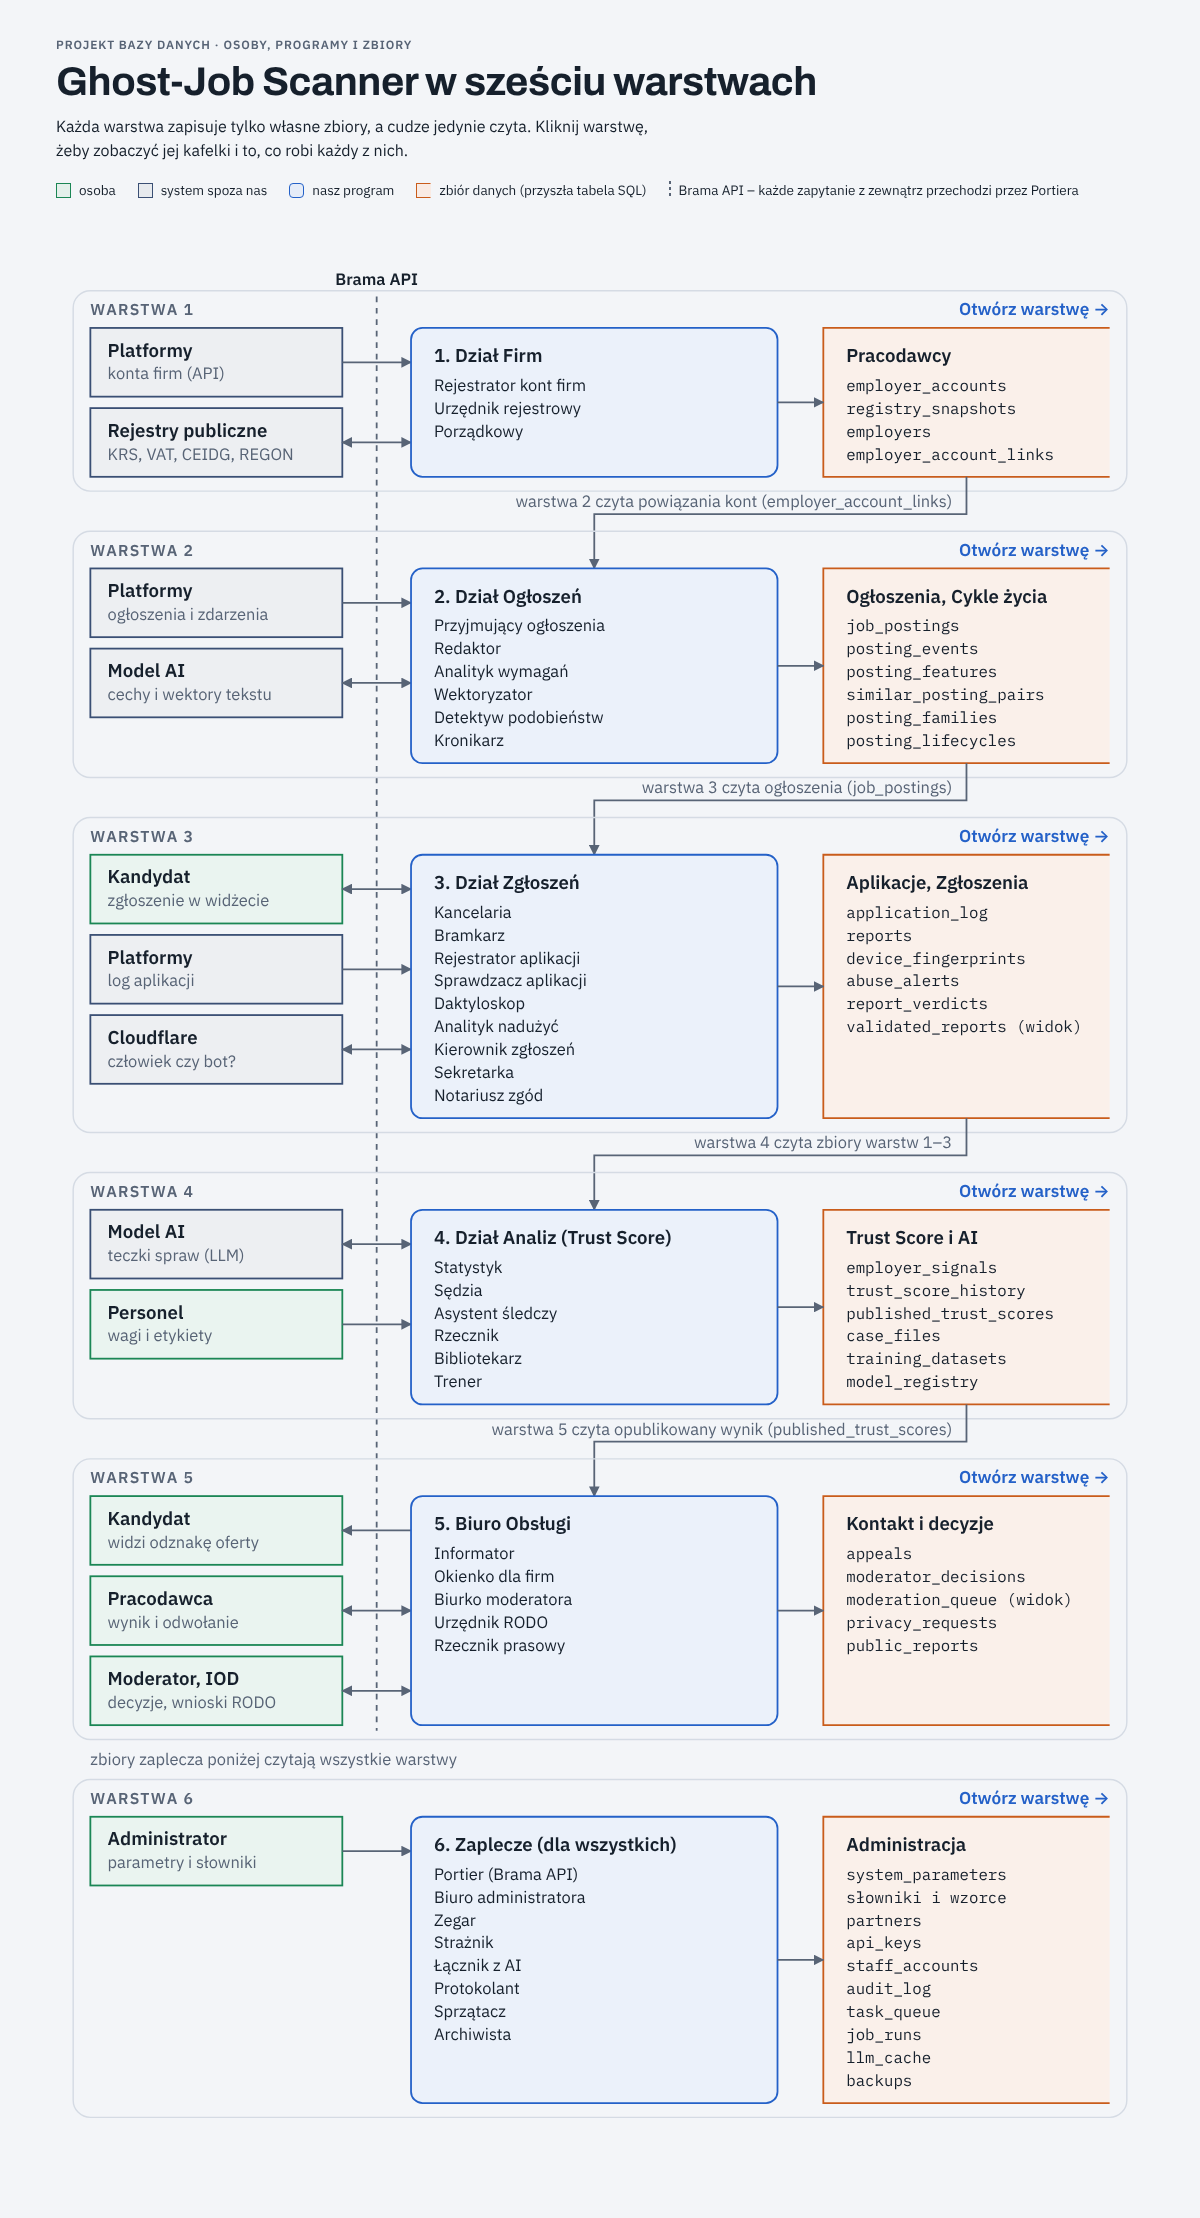
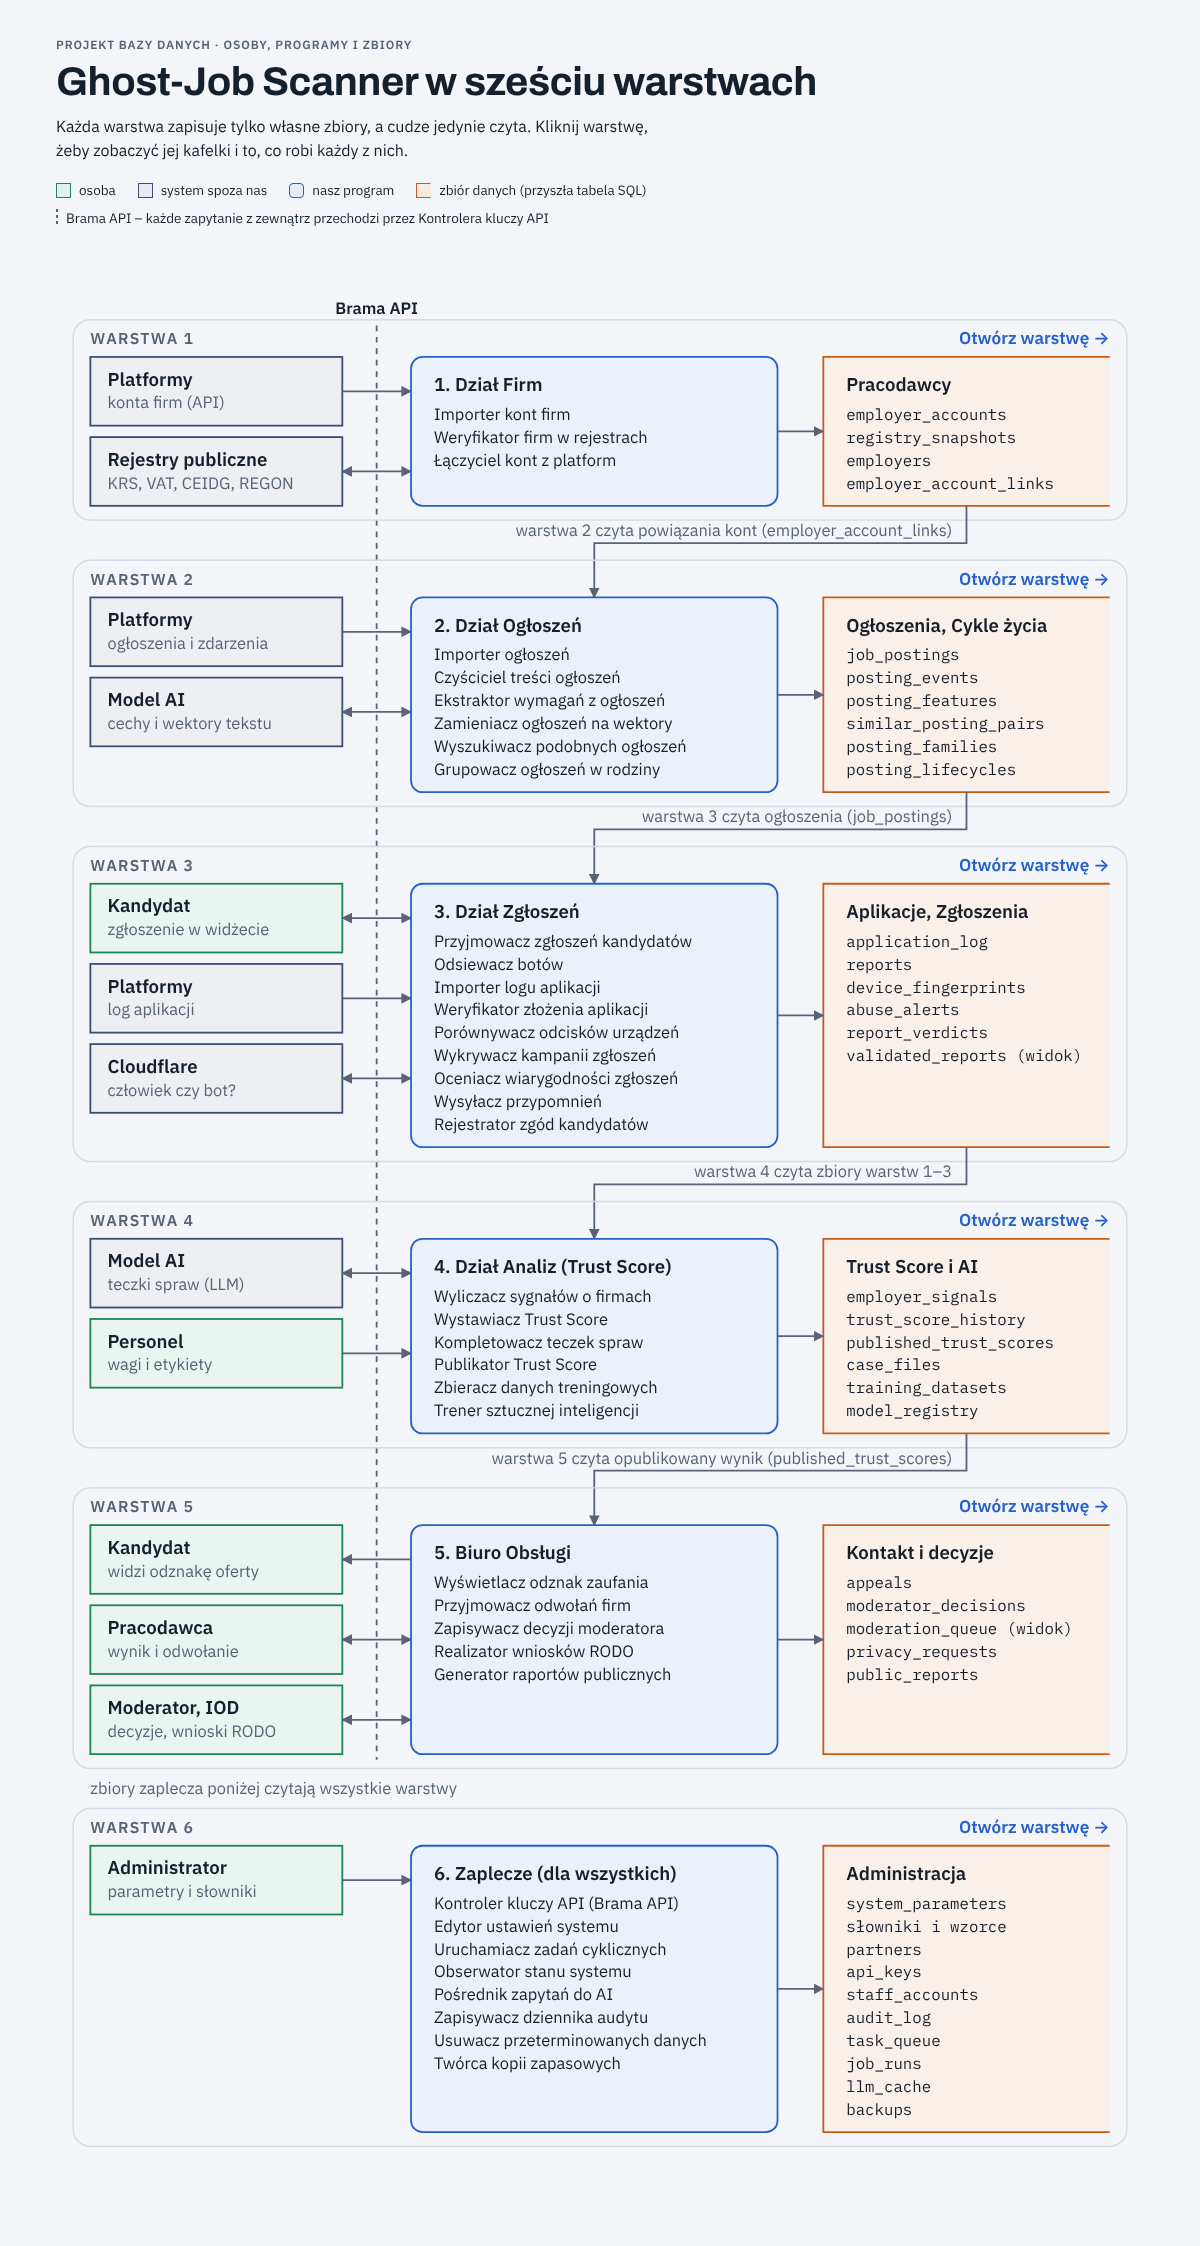
Obrazy w docs/img z nowymi nazwami programów
Mapa całości i warstwy to zrzuty web/index.html (render_img.js), a DFD
poziomu 1 i drogę zgłoszenia rysuje gen_diagramy.py. README nie mówi już,
że obrazy mają dawne nazwy, i opisuje, jak je odświeżyć.

Claude-Session: https://claude.ai/code/session_01MMtCAhrut2WqwfywQE67Po

Changed region(s): [[0.0617, 0.1244, 0.925, 0.9333], [0.7092, 0.7777, 0.925, 0.9644], [0.0617, 0.0311, 0.555, 0.0933]]

diff --git a/narzedzia/render_img.js b/narzedzia/render_img.js
@@ -1,0 +1,30 @@
+// Robi obrazy do docs/img/ z web/index.html i narzedzia/diagramy.html.
+// Użycie: python narzedzia/build_web.py && python narzedzia/gen_diagramy.py && node narzedzia/render_img.js
+// (wymaga pakietu playwright z przeglądarką Chromium)
+const path = require('path');
+const { chromium } = require('playwright');
+
+const root = path.join(__dirname, '..');
+const img = name => path.join(root, 'docs', 'img', name);
+
+(async () => {
+  const browser = await chromium.launch();
+  const page = await browser.newPage({ viewport: { width: 1200, height: 900 } });
+  const url = 'file://' + path.join(root, 'web', 'index.html');
+  await page.goto(url);
+  await page.evaluate(() => document.fonts.ready);
+  await page.screenshot({ path: img('mapa-calosc.png'), fullPage: true });
+  for (let n = 1; n <= 6; n++) {
+    await page.goto(url + '#warstwa-' + n);
+    await page.waitForTimeout(300);
+    // mini-mapa całej struktury zwinięta, jak na pierwszych obrazach
+    await page.evaluate(() => document.querySelectorAll('details[open]').forEach(d => d.removeAttribute('open')));
+    await page.screenshot({ path: img(`warstwa-${n}.png`), fullPage: true });
+  }
+  await page.setViewportSize({ width: 1400, height: 900 });
+  await page.goto('file://' + path.join(__dirname, 'diagramy.html'));
+  await page.evaluate(() => document.fonts.ready);
+  await (await page.$('#dfd')).screenshot({ path: img('dfd-poziom-1.png') });
+  await (await page.$('#droga')).screenshot({ path: img('droga-zgloszenia.png') });
+  await browser.close();
+})();

diff --git a/narzedzia/gen_diagramy.py b/narzedzia/gen_diagramy.py
@@ -1,0 +1,194 @@
+"""Buduje diagramy.html z dwoma rysunkami: DFD poziomu 1 i drogę zgłoszenia.
+
+Obrazy PNG z tego pliku robi narzedzia/render_img.js.
+"""
+import os
+import sys
+from html import escape
+
+HERE = os.path.dirname(os.path.abspath(__file__))
+sys.path.insert(0, HERE)
+from data import LAYERS  # noqa: E402
+from gen_html import MAP_SOURCES  # noqa: E402
+
+# Krótkie linie programów w kafelku działu (pełne nazwy + najważniejsza uwaga).
+DFD_PROGRAMS = {
+    1: ["Importer kont firm", "Weryfikator firm w rejestrach (NIP, KRS)", "Łączyciel kont z platform: scala duplikaty"],
+    2: ["Importer ogłoszeń (adaptery)", "Czyściciel treści ogłoszeń: tekst i stopki", "Ekstraktor wymagań z ogłoszeń",
+        "Zamieniacz ogłoszeń na wektory", "Wyszukiwacz podobnych ogłoszeń", "Grupowacz ogłoszeń w rodziny i cykle życia"],
+    3: ["Przyjmowacz zgłoszeń kandydatów", "Odsiewacz botów (Turnstile)", "Importer logu aplikacji",
+        "Weryfikator złożenia aplikacji", "Porównywacz odcisków urządzeń", "Wykrywacz kampanii zgłoszeń",
+        "Oceniacz wiarygodności zgłoszeń: waga i decyzja", "Wysyłacz przypomnień", "Rejestrator zgód kandydatów"],
+    4: ["Wyliczacz sygnałów o firmach", "Wystawiacz Trust Score: wynik i pewność", "Kompletowacz teczek spraw (LLM)",
+        "Publikator Trust Score: publikacja wyniku", "Zbieracz danych treningowych", "Trener sztucznej inteligencji"],
+    5: ["Wyświetlacz odznak zaufania (widżet)", "Przyjmowacz odwołań firm", "Zapisywacz decyzji moderatora",
+        "Realizator wniosków RODO", "Generator raportów publicznych"],
+    6: ["Kontroler kluczy API (Brama API)", "Edytor ustawień systemu", "Uruchamiacz zadań cyklicznych (harmonogram)",
+        "Obserwator stanu systemu", "Pośrednik zapytań do AI (cache, koszty)", "Zapisywacz dziennika audytu",
+        "Usuwacz przeterminowanych danych", "Twórca kopii zapasowych"],
+}
+DFD_READS = {1: "czyta powiązania kont", 2: "czyta ogłoszenia", 3: "czyta zbiory działów 1–3", 4: "czyta opublikowany wynik"}
+# Kierunek strzałek źródło ↔ dział, jak na mapie w template.html.
+DIRS = {1: ["in", "both"], 2: ["in", "both"], 3: ["both", "in", "both"], 4: ["both", "in"], 5: ["out", "both", "both"],
+        6: ["in"]}
+
+CSS = """
+body { margin: 0; background: #fff; font-family: 'IBM Plex Sans', sans-serif; }
+svg { display: block; }
+text { fill: #1d1d1b; font-size: 19px; }
+.title { font-size: 25px; font-weight: 600; }
+.dim { fill: #5f5d58; }
+.b { font-weight: 600; font-size: 21px; }
+.k-person { fill: #eaf5ee; stroke: #2f9e6e; stroke-width: 2.5; }
+.k-sys { fill: #e8ebf0; stroke: #1f2f4f; stroke-width: 2.5; }
+.k-prog { fill: #e6eff9; stroke: #3b82d6; stroke-width: 2; }
+.k-store { fill: #fcefe8; stroke: none; }
+.edge { fill: none; stroke: #e07b4f; stroke-width: 2; }
+.plain { fill: #fff; stroke: #c9c5bb; stroke-width: 2; }
+.hl { fill: #e6eff9; stroke: #3b82d6; stroke-width: 3; }
+.dash { fill: #fff; stroke: #c9c5bb; stroke-width: 2; stroke-dasharray: 8 6; }
+.ext { fill: #fff; stroke: #c9c5bb; stroke-width: 2; }
+.conn { fill: none; stroke: #c9c5bb; stroke-width: 2; }
+.gate { stroke: #9a978f; stroke-width: 1.5; stroke-dasharray: 5 5; }
+.m-head { fill: #c9c5bb; }
+"""
+MARKER = ('<defs><marker id="a" viewBox="0 0 10 10" refX="9" refY="5" markerWidth="7" markerHeight="7" '
+          'orient="auto-start-reverse"><path d="M0 1L10 5L0 9z" class="m-head"/></marker></defs>')
+
+
+def t(x, y, s, cls="", anchor=None):
+    a = f' text-anchor="{anchor}"' if anchor else ""
+    c = f' class="{cls}"' if cls else ""
+    return f'<text x="{x}" y="{y}"{c}{a}>{escape(s)}</text>'
+
+
+def arrow(d, both=False):
+    s = ' marker-start="url(#a)"' if both else ""
+    return f'<path class="conn" d="{d}" marker-end="url(#a)"{s}/>'
+
+
+def store(x, y, w, h):
+    return (f'<rect class="k-store" x="{x}" y="{y}" width="{w}" height="{h}"/>'
+            f'<path class="edge" d="M{x + w} {y}H{x}V{y + h}H{x + w}"/>')
+
+
+def dfd():
+    W = 1344
+    SX, SW, GX, PX, PW, ZX, ZW = 40, 290, 366, 405, 500, 945, 360
+    LH = 27
+    out = [t(40, 52, "Każdy dział zapisuje tylko własne zbiory, cudze tylko czyta", "title")]
+    legend = [("k-person", "Osoba – człowiek w roli, np. Kandydat"), ("k-sys", "System zewnętrzny – program spoza nas"),
+              ("k-prog", "Dział – każda linia to jeden nasz program"), ("k-store", "Zbiór – każda linia to przyszła tabela SQL")]
+    for i, (k, s) in enumerate(legend):
+        x, y = 40 + (i % 2) * 556, 86 + (i // 2) * 32
+        cls = k if k != "k-store" else "k-store\" style=\"stroke:#e07b4f;stroke-width:2"
+        out.append(f'<rect class="{cls}" x="{x}" y="{y}" width="19" height="19" rx="3"/>' + t(x + 30, y + 16, s))
+    out.append(t(40, 176, "Programy mają nazwy mówiące, co robią, np. Przyjmowacz zgłoszeń kandydatów = receive_report.py; "
+                 "„(widok)” = zapytanie, nie tabela", "dim"))
+    out.append(t(40, 204, "strzałka do zbioru = zapis, strzałka ze zbioru do działu = odczyt", "dim"))
+    out.append(t(GX, 240, "Brama API", "b", "middle").replace('class="b"', 'class="b" style="font-size:18px"'))
+    y = 262
+    lanes = []
+    for L in LAYERS:
+        n = L["id"]
+        progs, srcs = DFD_PROGRAMS[n], MAP_SOURCES[n]
+        stores = [z["name"] for z in L["stores"]]
+        h = max(len(srcs) * 92 - 12, 60 + LH * len(progs) + 14, 60 + LH * len(stores) + 14)
+        lanes.append((L, y, h, progs, srcs, stores))
+        y += h + (82 if n < 5 else 92)
+    H = y - 60
+    gate_end = lanes[4][1] + lanes[4][2] + 6
+    out.append(f'<line class="gate" x1="{GX}" y1="250" x2="{GX}" y2="{gate_end}"/>')
+    for i, (L, top, h, progs, srcs, stores) in enumerate(lanes):
+        n = L["id"]
+        for j, (kind, name, detail) in enumerate(srcs):
+            ey = top + j * 92
+            out.append(f'<rect class="k-{kind}" x="{SX}" y="{ey}" width="{SW}" height="78"/>')
+            out.append(t(SX + 20, ey + 32, name, "b") + t(SX + 20, ey + 60, detail, "dim"))
+            cy, d = ey + 39, DIRS[n][j]
+            out.append(arrow(f"M{PX} {cy}H{SX + SW}") if d == "out" else arrow(f"M{SX + SW} {cy}H{PX}", d == "both"))
+        out.append(f'<rect class="k-prog" x="{PX}" y="{top}" width="{PW}" height="{h}" rx="12"/>')
+        out.append(t(PX + 26, top + 40, L["map_title"], "b"))
+        out += [t(PX + 26, top + 74 + LH * k, p) for k, p in enumerate(progs)]
+        out.append(store(ZX, top, ZW, h))
+        out.append(t(ZX + 26, top + 40, L["store_group"], "b"))
+        out += [t(ZX + 26, top + 74 + LH * k, z) for k, z in enumerate(stores)]
+        out.append(arrow(f"M{PX + PW} {top + h / 2}H{ZX}"))
+        if n in DFD_READS:
+            b, nt, cx = top + h, lanes[i + 1][1], ZX + ZW * 0.45
+            out.append(arrow(f"M{cx} {b}V{b + 36}H{PX + PW / 2}V{nt}"))
+            out.append(t((cx + PX + PW / 2) / 2 + 40, b + 26, DFD_READS[n], "dim", "middle"))
+    return f'<svg id="dfd" viewBox="0 0 {W} {H}" width="{W}" height="{H}">{MARKER}{"".join(out)}</svg>'
+
+
+def box(x, y, w, h, cls, title, lines, rx=12):
+    r = f' rx="{rx}"' if cls not in ("ext",) else ""
+    s = [f'<rect class="{cls}" x="{x}" y="{y}" width="{w}" height="{h}"{r}/>', t(x + 28, y + 42, title, "b")]
+    for k, (cls2, line) in enumerate(lines):
+        s.append(t(x + 28, y + 72 + 28 * k, line, cls2))
+    return "".join(s)
+
+
+def droga():
+    W, H = 1384, 1400
+    L, C, R = 42, 410, 950       # lewa (zbiory), środkowa, prawa kolumna
+    CW, RW, LW = 495, 392, 311
+    o = [t(42, 52, "Zgłoszenie jest zapisywane od razu, a liczy się dopiero po ocenie Oceniacza wiarygodności", "title"),
+         t(42, 92, "ostry prostokąt = byt zewnętrzny · zaokrąglony = program · otwarty = zbiór danych", "dim")]
+    o.append(box(C, 127, CW, 99, "ext", "Kandydat w widżecie partnera", [("dim", "formularz, cechy urządzenia, token")]))
+    o.append(box(R, 127, RW, 99, "ext", "Cloudflare Turnstile", [("dim", "wydaje i sprawdza token")]))
+    o.append(box(C, 297, CW, 155, "plain", "Przyjmowacz zgłoszeń kandydatów",
+                 [("dim", "receive_report.py"), ("", "sprawdza format i czy oferta istnieje"),
+                  ("", "zapisuje od razu – nic nie ginie")]))
+    o.append(box(R, 297, RW, 155, "plain", "Odsiewacz botów",
+                 [("dim", "verify_turnstile.py"), ("", "pisze bot_checks"), ("", "token: 300 s, jednorazowy")]))
+    o.append(box(C, 523, CW, 340, "hl", "Oceniacz wiarygodności zgłoszeń",
+                 [("dim", "check_is_user_complaint_reliable.py"), ("", "bierze wynik Odsiewacza botów"),
+                  ("", "i trzy opinie (prawa kolumna),"), ("", "liczy wagę 0–1 i decyzję,"),
+                  ("", "zapisuje ją z powodami")]))
+    for k, (name, line) in enumerate([("Weryfikator złożenia aplikacji", "czyta application_log"),
+                                       ("Porównywacz odcisków urządzeń", "pisze device_fingerprints"),
+                                       ("Wykrywacz kampanii zgłoszeń", "pisze abuse_alerts")]):
+        yy = 523 + 120 * k
+        o.append(box(R, yy, RW, 99, "plain", name, [("", line)]))
+        o.append(arrow(f"M{R} {yy + 50}H{C + CW}"))
+    for yy, name in [(346, "reports"), (771, "report_verdicts"), (1117, "validated_reports (widok)")]:
+        o.append(store(L, yy, LW, 57).replace("k-store", "k-store\" style=\"fill:#fff").replace("class=\"edge\"", "class=\"conn\""))
+        o.append(t(L + 22, yy + 36, name))
+    # strzałki górnej części
+    o.append(arrow(f"M{C + CW} 177H{R}", True))
+    o.append(arrow(f"M{R + RW / 2} 226V297", True) + t(R + RW / 2 + 16, 270, "tak / nie", "dim"))
+    o.append(arrow(f"M{C + CW / 2} 226V297") + t(C + CW / 2 + 16, 270, "zgłoszenie", "dim"))
+    o.append(arrow(f"M{C + CW} 375H{R}", True))
+    o.append(arrow(f"M{C} 375H{L + LW}"))
+    o.append(arrow(f"M{L + 156} 403V573H{C}"))
+    o.append(arrow(f"M{C + CW / 2} 452V523") + t(C + CW / 2 + 16, 496, "zlecenie oceny", "dim"))
+    o.append(arrow(f"M{C} 799H{L + LW}"))
+    # decyzja
+    cx, cy = C + CW / 2, 976
+    o.append(arrow(f"M{cx} 863V920"))
+    o.append(f'<path class="plain" d="M{cx} 920L{cx + 155} {cy}L{cx} 1032L{cx - 155} {cy}z"/>')
+    o.append(t(cx, cy + 7, "jaka decyzja?", "b", "middle"))
+    o.append(arrow(f"M{cx - 155} {cy}H{L + 156}V1117") + t(354, cy - 14, "przyjęte", "dim", "middle"))
+    o.append(arrow(f"M{cx} 1032V1117") + t(cx + 16, 1082, "do moderacji", "dim"))
+    o.append(arrow(f"M{cx + 155} {cy}H{R + RW / 2}V1117") + t(1000, cy - 14, "odrzucone", "dim", "middle"))
+    o.append(box(C, 1117, CW, 155, "plain", "Zapisywacz decyzji moderatora",
+                 [("", "człowiek ogląda teczkę sprawy"), ("", "pisze moderator_decisions"),
+                  ("", "Oceniacz ocenia zgłoszenie ponownie")]))
+    o.append(box(R, 1117, RW, 99, "dash", "Odrzucone", [("", "zostaje w reports z wagą 0")]))
+    o.append(arrow(f"M{L + 156} 1174V1245"))
+    o.append(box(L, 1245, LW, 99, "plain", "Dział Analiz", [("", "sygnały → Trust Score")]))
+    return f'<svg id="droga" viewBox="0 0 {W} {H}" width="{W}" height="{H}">{MARKER}{"".join(o)}</svg>'
+
+
+def main():
+    page = ('<!doctype html><html lang="pl"><head><meta charset="utf-8">'
+            '<link rel="stylesheet" href="https://fonts.googleapis.com/css2?family=IBM+Plex+Sans:wght@400;600&display=swap">'
+            f'<style>{CSS}</style></head><body>{dfd()}{droga()}</body></html>')
+    out = os.path.join(HERE, "diagramy.html")
+    open(out, "w", encoding="utf-8").write(page)
+    print(out)
+
+
+if __name__ == "__main__":
+    main()

diff --git a/README.md b/README.md
@@ -31,9 +31,9 @@ Etap obecny: **projekt na papierze, przed SQL** – wszystkie osoby (w tym progr
 
 ## Nazwy programów
 
-Każdy program ma nazwę, która mówi, co robi (wzór: *kto + co*). Taki sam jest jego klucz w kodzie i w adresie strony, np. `laczyciel-kont`, `trener-ai`, `uruchamiacz-zadan`. Obrazy w `docs/img/` pochodzą sprzed zmiany i mają jeszcze dawne nazwy – poniżej ich odpowiedniki.
+Każdy program ma nazwę, która mówi, co robi (wzór: *kto + co*). Taki sam jest jego klucz w kodzie i w adresie strony, np. `laczyciel-kont`, `trener-ai`, `uruchamiacz-zadan`. Dawne nazwy (metafory zawodów) i ich odpowiedniki:
 
-| Dawna nazwa (na obrazach) | Obecna nazwa |
+| Dawna nazwa | Obecna nazwa |
 |---|---|
 | Rejestrator kont firm | Importer kont firm |
 | Urzędnik rejestrowy | Weryfikator firm w rejestrach |
@@ -86,7 +86,9 @@ Każdy program ma nazwę, która mówi, co robi (wzór: *kto + co*). Taki sam je
 Treść kafelków jest w `narzedzia/data.py`, długie opisy „Rola” źródeł i programów w `narzedzia/roles.py` (powiązania czyta/zapisuje w `narzedzia/gen_html.py`). Po zmianie:
 
 ```bash
-python narzedzia/build_web.py   # odświeża web/index.html
+python narzedzia/build_web.py      # odświeża web/index.html
+python narzedzia/gen_diagramy.py   # DFD poziomu 1 i droga zgłoszenia (narzedzia/diagramy.html)
+node narzedzia/render_img.js       # zapisuje obrazy w docs/img/ (wymaga playwright)
 ```
 
 `narzedzia/gen_layer.py` generował rysunki warstw do dokumentu w Claude Docs (ma w sobie identyfikatory tamtego dokumentu).
